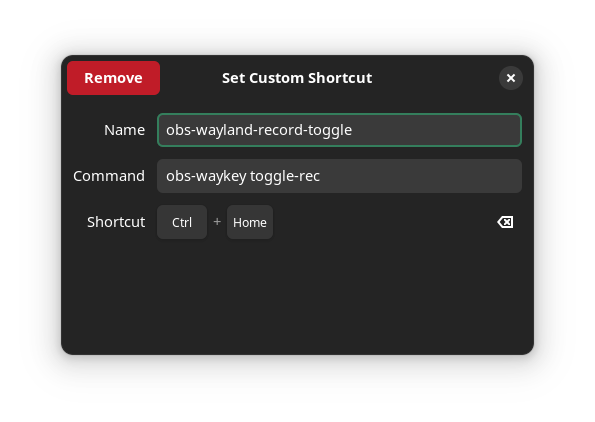
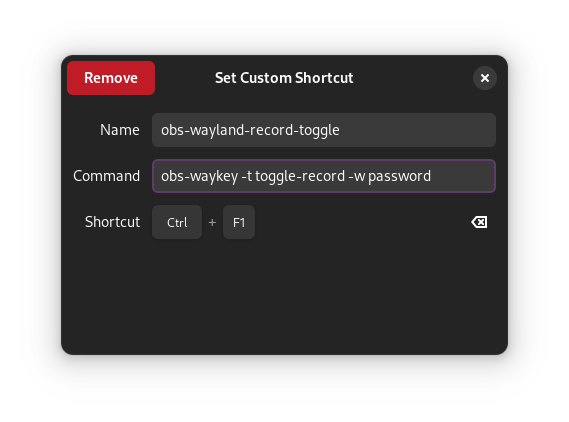
added password support

diff --git a/obs_waykey/toggles_logic.py b/obs_waykey/toggles_logic.py
@@ -1,0 +1,27 @@
+###############################################################################
+# This is the main file with functions for each toggle.                       #
+# Quick Tip: "name" is a variable passed in by the toggle_ignition.py script. #
+###############################################################################
+
+import obsws_python as obs
+import argparse
+
+# Sets up argumet parser
+parser = argparse.ArgumentParser(description="Global hotkey workaround for obs")
+parser.add_argument("-t", "--toggle", type=str, help="Flag for specyfing triggers")
+parser.add_argument("-w", "--password", type=str, help="Flag for setting password")
+args = parser.parse_args()
+
+# Sets up needed variables
+client = obs.ReqClient(host='localhost', port=4455, password=args.password, timeout=3)
+trigger = args.trigger
+
+def record(name: str):
+    if trigger == name:
+        client.toggle_record()
+
+def record_pause(name: str):
+    if trigger == name:
+        client.toggle_record_pause()
+
+# TODO add more toggles

diff --git a/obs_waykey/toggles_ignition.py b/obs_waykey/toggles_ignition.py
@@ -1,0 +1,12 @@
+###############################################################
+# This file is first ran when using the obs-waykey command    #
+# This file is where you can change the name of the triggers. #
+###############################################################
+
+from .toggles_logic import *
+
+def ignite():
+    record("toggle-record")
+    record_pause("toggle-record-pause")
+
+# TODO Add more triggers

diff --git a/obs_waykey/__init__.py b/obs_waykey/__init__.py
@@ -1,5 +1,8 @@
-from .toggles import record
-from .toggles import record_pause
-from .triggers import ignite
+# Expose ignite 
+from .toggles_ignition import ignite
+
+# Expose toggles
+from .toggles_logic import record
+from .toggles_logic import record_pause
 
 __all__ = ["record", "record_pause", "ignite"]

diff --git a/README.md b/README.md
@@ -4,10 +4,10 @@ Python script for setting up OBS global keybinds under wayland
 
 ## Requirements
 
--   [OBS Studio](https://obsproject.com/)
--   [OBS Websocket v5 Plugin](https://github.com/obsproject/obs-websocket/releases/tag/5.0.0)
-    -   ATTENTION: For OBS version 28 and above Websocket plugin is included by default. If you run an older version it must be installed manually.
--   Python 3.9 or greater
+- [OBS Studio](https://obsproject.com/)
+- [OBS Websocket v5 Plugin](https://github.com/obsproject/obs-websocket/releases/tag/5.0.0)
+  - ATTENTION: For OBS version 28 and above Websocket plugin is included by default. If you run an older version it must be installed manually.
+- Python 3.9 or greater
 
 # Install and Setup
 
@@ -27,25 +27,21 @@ pipx install <file-name>
 
 ## Setup
 
-ATTENTION: WebSocket authentication must be disabled for this script to work.
-
-You can find it under `Tools > WebSocket Server Settings > Enable Authentication`.
-
 1. Go to your Desktop settings (or WM config file)
 2. Go to where you configure keybinds
 3. Add a new custom keybind
 4. Name it what you want
-5. Use the command `obs-waykey <toggle>`
+5. Use the command `obs-waykey -t <toggle> -w <your-password>`
 6. Set your keybind
 
-### Here's how mine looks
+### Here's an example
 
 ![my keybind](https://github.com/PolyCatDev/obs-waykey/blob/main/.github/toggle-rec-config.png)
 
 ## Toggles
 
-1. `toggle-rec`
-2. `toggle-rec-pause`
+1. `toggle-record`
+2. `toggle-record-pause`
 
 # Build from source
 
@@ -80,7 +76,7 @@ poetry build
 
 # To do
 
--   [ ] Add more toggles
--   [ ] Password Support
--   [ ] Alternative IP support
--   [ ] Alternative port support
+- [ ] Add more toggles
+- [x] Password Support
+- [ ] Alternative IP support
+- [ ] Alternative port support
